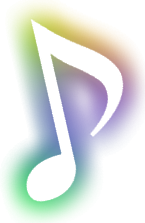
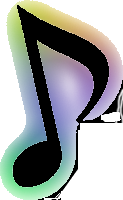
Particles Look Pretty Cool. Added Attack Animations to Player

diff --git a/Engine/src/Particles.cpp b/Engine/src/Particles.cpp
@@ -1,12 +1,13 @@
 #include "Particles.h"
 #include <iomanip>
+#include <cmath>
 
 Particles::Particles()
 {
     //ctor
     numDrops = 0;
     texture = new TextureLoader();
-    texture->BindTexture("Images/Misc/MusicParticle.png");
+    texture->BindTexture("Images/Misc/MusicParticle3.png");
 }
 
 Particles::~Particles()
@@ -22,30 +23,32 @@ void Particles::DrawParticles()
     texture->Binder();
 //    glPointSize(5); // pixel size of particle
 
-glBegin(GL_QUADS);
 //    glBegin(GL_POINTS);
 
     for(auto drop : drops)
     {
-        if(!drop.alive)
-            continue;
+//        glRotated(0, 1, 0, 0);
+//        glRotated(0, 0, 1, 0);
+//        glRotated(drop.angleOfRotation, 0, 0, 1.0);
 
+        glBegin(GL_QUADS);
         glTexCoord2f(0.0, 1.0);
 		glVertex3f(drop.xPos, drop.yPos, 0);
 
 		glTexCoord2f(1.0, 1.0);
-		glVertex3f(drop.xPos + 0.03, drop.yPos, 0);
+		glVertex3f(drop.xPos + 0.08, drop.yPos, 0);
 
 		glTexCoord2f(1.0, 0.0);
-		glVertex3f(drop.xPos + 0.03, drop.yPos - 0.03, 0);
+		glVertex3f(drop.xPos + 0.08, drop.yPos - 0.08, 0);
 
 		glTexCoord2f(0.0, 0.0);
-		glVertex3f(drop.xPos, drop.yPos - 0.03, 0);
+		glVertex3f(drop.xPos, drop.yPos - 0.08, 0);
+		glEnd();
 //        glVertex3f(drop.xPos, drop.yPos, 0);
     }
 
 
-    glEnd();
+
     glPopMatrix();
     glDisable(GL_TEXTURE_2D);
 }
@@ -79,35 +82,25 @@ void Particles::LifeTime()
 void Particles::LifetimeMusic(double x, double y, double xDir, double yDir, double width)
 {
     double radius = width / 2;
-    double theta = sqrt((xDir * xDir) + (yDir * yDir)) * 1000;
-
-    cout << theta << endl;
+    double theta = 0;
 
     for(int i = 0; i < numDrops; i++)
     {
         if(drops[i].alive)
         {
-            double newX = x + radius * cos(theta);
-            double newY = y + radius * sin(theta);
-//            double newX = x + radius * cos(theta);
-//            double newY = y + radius * sin(theta);
+            double newX = x + (radius * RadiusRandom()) * cos(theta);
+            double newY = y + (radius * RadiusRandom()) * sin(theta);
 //            double newX = (x - drops[i].xPos) - newDir;
 //            double newY = (y - drops[i].yPos) - newDir;
-//            double newX = x * DoubleRandom();
-//            double newY = y * DoubleRandom();
+            drops[i].angleOfRotation = theta;
             drops[i].xPos = newX;
             drops[i].yPos = newY;
-//            drops[i].xPos -= xDir;
-//            drops[i].yPos -= yDir;
-//            drops[i].xPos -= (x - drops[i].xPos) * xDir;
-//            drops[i].yPos -= (y - drops[i].yPos) * yDir;
-
-//            if(drops[i].time->GetTicks() > 100)
-//                drops[i].alive = false;
-
+//            cout << abs((x - drops[i].xPos) - xDir) << "    " << abs((y - drops[i].yPos) - yDir) << endl;
+//            drops[i].xPos -= abs((x - drops[i].xPos) - xDir) * DeltaTime::GetDeltaTime();
+//            drops[i].yPos -= abs((y - drops[i].yPos) - yDir) * DeltaTime::GetDeltaTime();
         }
 
-        theta += 1.8;
+        theta += (360 / numDrops);
     }
 }
 
@@ -141,6 +134,12 @@ double Particles::DoubleRandom()
     return rand() % 1000 / 1000.0;
 }
 
+double Particles::RadiusRandom()
+{
+    // returns a number between 0.7 and 1.0
+    // 0.3 is 1.0 - 0.7
+    return ((rand() / double(RAND_MAX)) * 0.5) + 0.5;
+}
 
 
 
@@ -151,10 +150,12 @@ double Particles::DoubleRandom()
 void Particles::GenerateMusicParticles(int x, int y, double width, double height)
 {
 
-    double radius = width / 4;
+    double radius = width / 2;
 
-    int newDrops = 100; // 60 is arbitrary. Could put anything
+    int newDrops = 25; // 60 is arbitrary. Could put anything
     double theta = 0;
+
+
 
     if(numDrops + newDrops > MAX_MUSIC_DROPS)
         newDrops = MAX_MUSIC_DROPS - numDrops;
@@ -162,17 +163,11 @@ void Particles::GenerateMusicParticles(int x, int y, double width, double height
     for(int i = 0; i < newDrops; i++)
     {
         // This equation will create a circle of particles around the boundaries of the music note
-//        double newX = x + radius * cos(theta);
-//        double newY = y + radius * sin(theta);
+        double newX = x + radius * cos(theta);
+        double newY = y + radius * sin(theta);
 
 
-//        drops.push_back(Node(newX, newY));
-        cout << DoubleRandom() << endl;
-        double newX = x * DoubleRandom();
-        double newY = y * DoubleRandom();
         drops.push_back(Node(newX, newY));
-
-
 //        drops[i].alive = true;
 //        drops[i].xPos = newX;
 //        drops[i].yPos = newY;
@@ -182,7 +177,7 @@ void Particles::GenerateMusicParticles(int x, int y, double width, double height
 //        drops[i].time = new Timer();
 //        drops[i].time->Start();
 
-        theta += 3.6; // move onto the next part of the circle
+        theta += (360 / newDrops); // move onto the next part of the circle
 
 //        if(theta > 360) // if we've exceeded a full circle of particles, then stop generating
 //            break;
@@ -191,7 +186,7 @@ void Particles::GenerateMusicParticles(int x, int y, double width, double height
     numDrops += newDrops;
 
     if(numDrops >= MAX_MUSIC_DROPS)
-        numDrops = 0;
+        numDrops = MAX_MUSIC_DROPS;
 
 }
 

diff --git a/Engine/src/Player.cpp b/Engine/src/Player.cpp
@@ -44,6 +44,8 @@ Player::Player(double newX, double newY)
     jumpSpeed = 1.0;
     hp = 3;
     actionTrigger = 0;
+    attackFrame = 0;
+    dieFrame = 0;
 
      // physics
     gravity = 0.98;
@@ -57,6 +59,7 @@ Player::Player(double newX, double newY)
     slowDown = false;
     gravity = -9.80;
     moving = false;
+    attacking = false;
     pushBack = false;
     jumpVelocity = 5.0;
     fallVelocity = 0.0;
@@ -213,12 +216,17 @@ void Player::InitPlayer()
     jumpAnim[2].BindTexture("Images/Player/Test_Movement_0002.png");
     jumpAnim[3].BindTexture("Images/Player/Test_Movement_0003.png");
 
+    attackAnim[0].BindTexture("Images/Player/");
+    attackAnim[1].BindTexture("Images/Player/");
+    attackAnim[2].BindTexture("Images/Player/");
+    attackAnim[3].BindTexture("Images/Player/");
+
     icons[0]->InitModel("Images/HUD/EKey.png", true);
     icons[1]->InitModel("Images/HUD/QKey.png", true);
     icons[2]->InitModel("Images/HUD/LeftMouse.png", true);
     icons[3]->InitModel("Images/HUD/RightMouse.png", true);
 
-    musicCircle->InitModel("Images/MusicSprites/MusicCircle.png", true);
+//    musicCircle->InitModel("Images/MusicSprites/MusicCircle.png", true);
 
 }
 
@@ -279,6 +287,31 @@ glEnable(GL_TEXTURE_2D);
 
         glPopMatrix();
         break;
+    case 3:
+        // Attacking
+
+        glPushMatrix();
+
+        glTranslated(xPos, yPos, playerZoom);
+
+        if(frameTimer->GetTicks() > 60)
+        {
+            attackFrame++;
+            attackFrame %= 4;
+
+            if(attackFrame == 0) // only show the attack animation one time before stopping.
+                attacking = false;
+
+            frameTimer->Reset();
+        }
+
+        attackAnim[attackFrame].Binder();
+        DrawPlayer();
+
+        glPopMatrix();
+
+        break;
+
     }
     glDisable(GL_TEXTURE_2D);
 }
@@ -312,13 +345,13 @@ void Player::Update()
         else
             Actions(2);
     }
-    else if(!moving && !jump)
+    else if(!moving && !jump && !attacking)
         Actions(0);
 
     if(jump)
     {
         Jump();
-        if(!moving)
+        if(!moving && !attacking)
             Actions(2);
     }
     else
@@ -329,6 +362,9 @@ void Player::Update()
 
     if(pushBack)
         PushBack();
+
+    if(attacking)
+        Actions(3);
 
     CheckEnemyCollision();
 
@@ -756,8 +792,9 @@ double Player::GetZoom()
 
 void Player::ShootProjectile(double x, double y)
 {
-    Projectile *newProjectile = new Projectile(xPos, yPos, 0.5, 0.5, 1, 4.0, "MusicNote", "PlayerProjectile", x + xPos, y + yPos); // sends relative mouse pointer location
-    vector<string> animNames = {"Images/Note.png"};
+    attacking = true;
+    Projectile *newProjectile = new Projectile(xPos, yPos, 0.3, 0.5, 1, 3.5, "MusicNote", "PlayerProjectile", x + xPos, y + yPos); // sends relative mouse pointer location
+    vector<string> animNames = {"Images/music_note.png"};
     newProjectile->InitAnimations(animNames);
 //    newProjectile->InitModel("Images/Note.png", true);
     chord->PlayChord(chordManager->GetNextChord());

diff --git a/Engine/include/Player.h b/Engine/include/Player.h
@@ -90,7 +90,7 @@ class Player : public Model
     private:
         int hp;
         int moveSpeed, jumpSpeed;
-        bool jump, slowDown, moving, playingChords, canPlay, invincible, pushBack;
+        bool jump, slowDown, moving, attacking, playingChords, canPlay, invincible, pushBack;
         float jumpVelocity, fallVelocity;
         float initialY;
         float xDirection, prevXDirection;
@@ -128,11 +128,13 @@ class Player : public Model
         void ToggleMusicCircle();
         void DrawMusicCircle();
 
-        int idleFrame;
+        int idleFrame, attackFrame, dieFrame;
         Timer* frameTimer;
         TextureLoader run[4];
         TextureLoader idle[5];
         TextureLoader jumpAnim[4];
+        TextureLoader attackAnim[4];
+//        TextureLoader dieAnim[];
 
 //        Particle* sparkParticles;
 

diff --git a/Engine/src/LevelCreator.cpp b/Engine/src/LevelCreator.cpp
@@ -1135,6 +1135,12 @@ void LevelCreator::LoadLevelFromXML()
 
         background = new Parallax();
         background->ParallaxInit(texturePath);
+
+        string::size_type findRelativePath = texturePath.find(backgroundRelativeFilePath);
+
+        if (findRelativePath != string::npos)
+            texturePath.erase(findRelativePath, backgroundRelativeFilePath.length());
+
         backgroundTexture = texturePath;
 
         mainElements = mainElements->NextSiblingElement();

diff --git a/Engine/src/Projectile.cpp b/Engine/src/Projectile.cpp
@@ -138,7 +138,7 @@ void Projectile::DisplayParticles()
     // This is called in DrawGLScene. Make sure it is uncommented in DrawGLScene
 
 //    particle->GenerateMusicParticles(xPos, yPos, width, height);
-    particle->LifetimeMusic(xPos, yPos, xDir, yDir, width);
+    particle->LifetimeMusic(xPos, yPos, xDir, yDir, height);
     particle->DrawParticles();
 
 //    glUseProgram(shader->program);

diff --git a/Engine/include/Particles.h b/Engine/include/Particles.h
@@ -38,11 +38,14 @@ class Particles
 
     private:
 
+        double RadiusRandom();
+
         struct Node
         {
             bool alive;
             double xPos, yPos, zPos;
             float directionX, directionY;
+            double angleOfRotation, rotationZ;
             float mass;
             Timer* time;
             // particle characteristics
